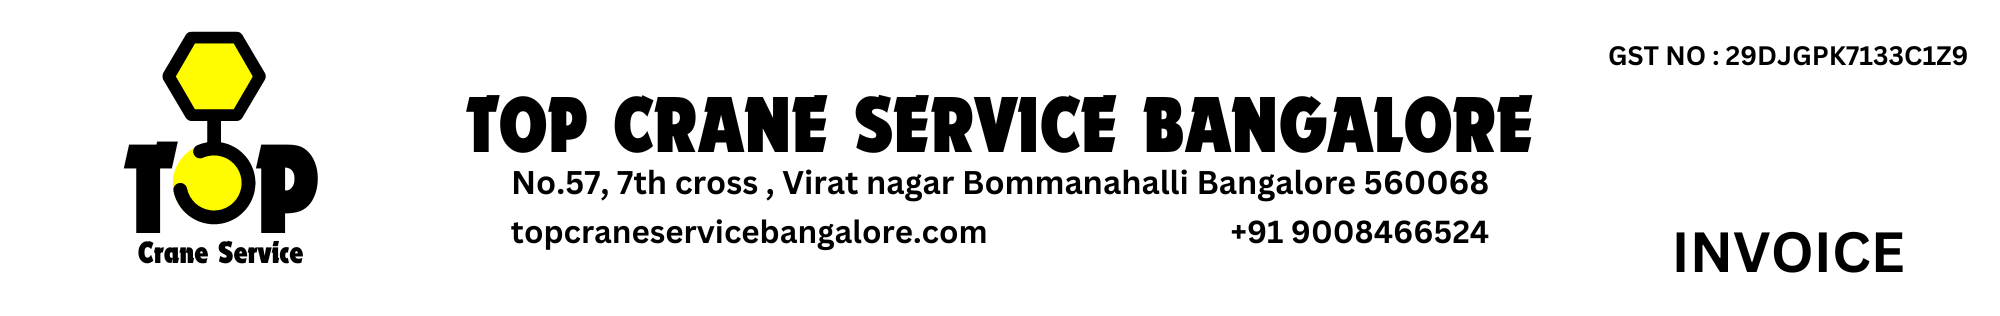
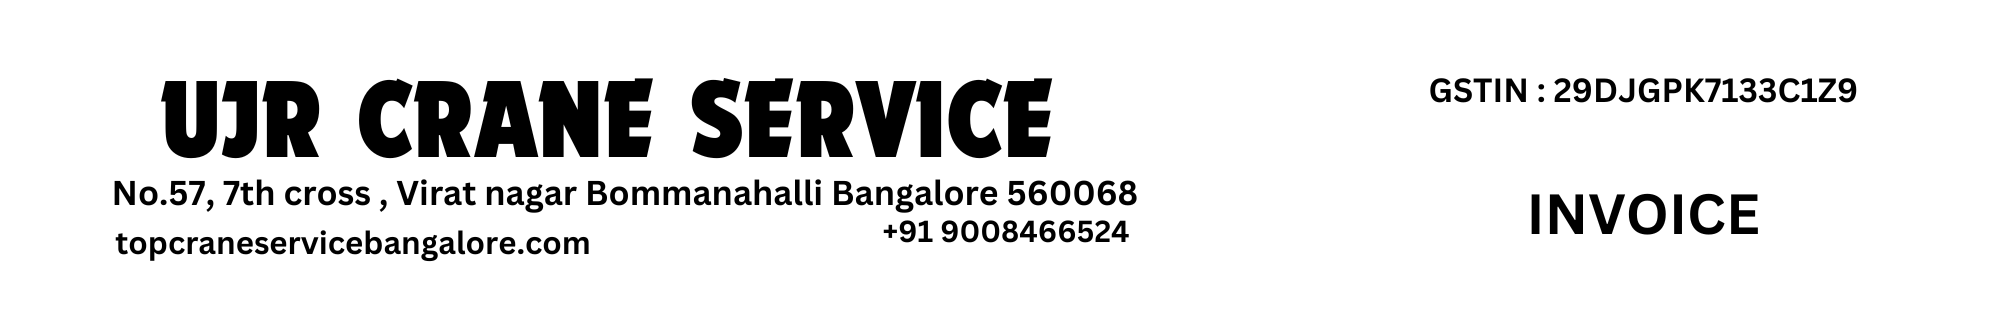
cc

Changed region(s): [[0.031, 0.0854, 0.992, 0.8829]]

diff --git a/src/Pages/BcsInvoice.js b/src/Pages/BcsInvoice.js
@@ -4,7 +4,7 @@ import { ToWords } from 'to-words';
 import jsPDF from "jspdf";
 import BcsWaterMark from "./Images/Bcswatermark.png"; // Import your logo image
 import Head from "./Images/bcsInvoiceHead.png"; // Import your logo image
-import Footer from "./Images/Foot.png"; // Import your logo image
+import Footer from "./Images/InvoiceFoot.png"; // Import your logo image
 // import waterMark from "./Images/hmswatermark.png"; // Import your logo image
 
 import callIcon from "./Images/callicon.png"; // Import your logo image
@@ -62,6 +62,7 @@ let BcsInvoice = () => {
     mobile: "",
     address: "",
     gst: "",
+    gstNo: "",
    
   });
 
@@ -171,8 +172,7 @@ let BcsInvoice = () => {
     pdf.setFontSize(55);
 
     pdf.addImage(Head, "PNG", 12, 8,185,30);
-    // pdf.addImage(Footer, "PNG", 12, 240,185,30);
-   
+    pdf.addImage(Footer, "PNG", 12, 250,185,30);
 
     pdf.addImage(BcsWaterMark, "PNG", 50, 90, 110, 90);
         pdf.setFont(undefined, "bold");
@@ -183,32 +183,11 @@ let BcsInvoice = () => {
     pdf.setTextColor(0, 0, 0);
     pdf.setFontSize(14);
 
-    // pdf.setFontSize(9);
-    // pdf.text(13, 30, "No. 320,10th cross NGR Layout, Masjid Road,Roopena Agrahara, Bangalore - 560068");
-    // pdf.text(
-    //   13,
-    //   34,
-    //   "E-Mail :blrcraneservice@gmail.com             Web : www.bangalorecraneservice.com"
-    // );
-    // pdf.setFontSize(15);
-    // pdf.setFont(undefined, "bold");
 
-    // pdf.text(160, 18, "Invoice");
-
-
-
-    // Add a filled rectangular box to the PDF
-
-
-    // Set text color to white
-  
     pdf.setTextColor(0, 0, 0);
     pdf.setFontSize(16);
     pdf.setFont(undefined, "none");
-    // pdf.addImage(callIcon, "PNG", 144, 24, 13, 13);
-
-    // pdf.text(158, 30, "Huzaifa ");
-    // pdf.text(158, 36, "7204021703");
+   
     pdf.setFontSize(10);
     //input
     pdf.rect(12, 41, 95, 7);
@@ -219,16 +198,11 @@ let BcsInvoice = () => {
     pdf.text(`ADDRESS: ${formData.address}`, 13, 59.5, { align: "left" });
 
     let currentDate = new Date().toLocaleDateString();
-    var d = new Date(); 
-    var t = new Date().getTime();
-    var randomnum = Math.floor(Math.random() * (100 -  50000)) + 100;
-    randomnum = d.getFullYear() + (d.getMonth()+1) + (d.getDate()) + randomnum; 
-    randomnum = randomnum + t;
-    randomnum = randomnum - 1699000090000 ;
-    console.log(randomnum);
-    pdf.rect(107, 41, 90, 7);
     pdf.text(`DATE: ${currentDate}`, 108, 45.4);
-    pdf.text(`Invoice No: BCS${randomnum}`, 108, 52.5, { align: "left" });
+    pdf.rect(107, 41, 90, 7);
+    pdf.rect(137, 41, 60, 7);
+    pdf.text(`Invoice No: ${formData.invoiceNo}`, 138, 45.4, { align: "left" });
+    pdf.text(`Party's GSTIN: ${formData.gstNo}`, 108, 52.5, { align: "left" });
 
     pdf.rect(107, 48, 90, 7);
 
@@ -517,9 +491,28 @@ console.log(subTotal); // Output the subTotal
   return (
     <div className="form-container">
       {/* <h4><Link to="/">Go to Home</Link></h4> */}
-      <h4>TOP Crane Service Invoice</h4>
+     
 
       <form onSubmit={handleSubmit}>
+      
+      <div className="inline-container">
+  <div className="invoice-header">
+    <h4>TOP Crane Service Invoice</h4>
+  </div>
+
+  <div className="invoice-input">
+    <input
+      type="text"
+      id="invoiceNo"
+      placeholder="Invoice Number"
+      name="invoiceNo"
+      required
+      value={formData.invoiceNo}
+      onChange={handleInputChange}
+    />
+  </div>
+</div>
+
         <div className="display-inline">
           <div className="form-group">
             <input
@@ -568,10 +561,21 @@ console.log(subTotal); // Output the subTotal
             <input
               type="text"
               className="input margin"
-              placeholder="Gst"
+              placeholder="Gst percent"
               id="gst"
               name="gst"
               value={formData.gst}
+              onChange={handleInputChange}
+            />
+          </div>
+          <div className="form-group">
+            <input
+              type="text"
+              className="input margin"
+              placeholder="Customer Gst Number "
+              id="gstNo"
+              name="gstNo"
+              value={formData.gstNo}
               onChange={handleInputChange}
             />
           </div>
@@ -602,7 +606,7 @@ console.log(subTotal); // Output the subTotal
               id="no1Rate"
               placeholder="Rate 1"
               name="no1Rate"
-            
+            required
               title="Please enter Rate"
               value={formData.no1Rate}
               onChange={handleInputChange}

diff --git a/src/Pages/Form.css b/src/Pages/Form.css
@@ -62,6 +62,28 @@ input {
   display: flex;
 }
 
+.inline-container {
+  display: flex;
+  align-items: center; /* Align items vertically */
+  gap: 10px; /* Add spacing between the elements */
+}
+
+.invoice-header {
+  margin: 0;
+}
+#invoiceNo {
+  width: 170px; /* Adjust the width as needed */
+}
+
+.invoice-input {
+  margin: 0;
+}
+#invoiceNo::placeholder {
+  color: red;
+  font-weight: bold;
+  
+}
+
 .submit-button {
   width: 100px;
   background-color: #007bff;
